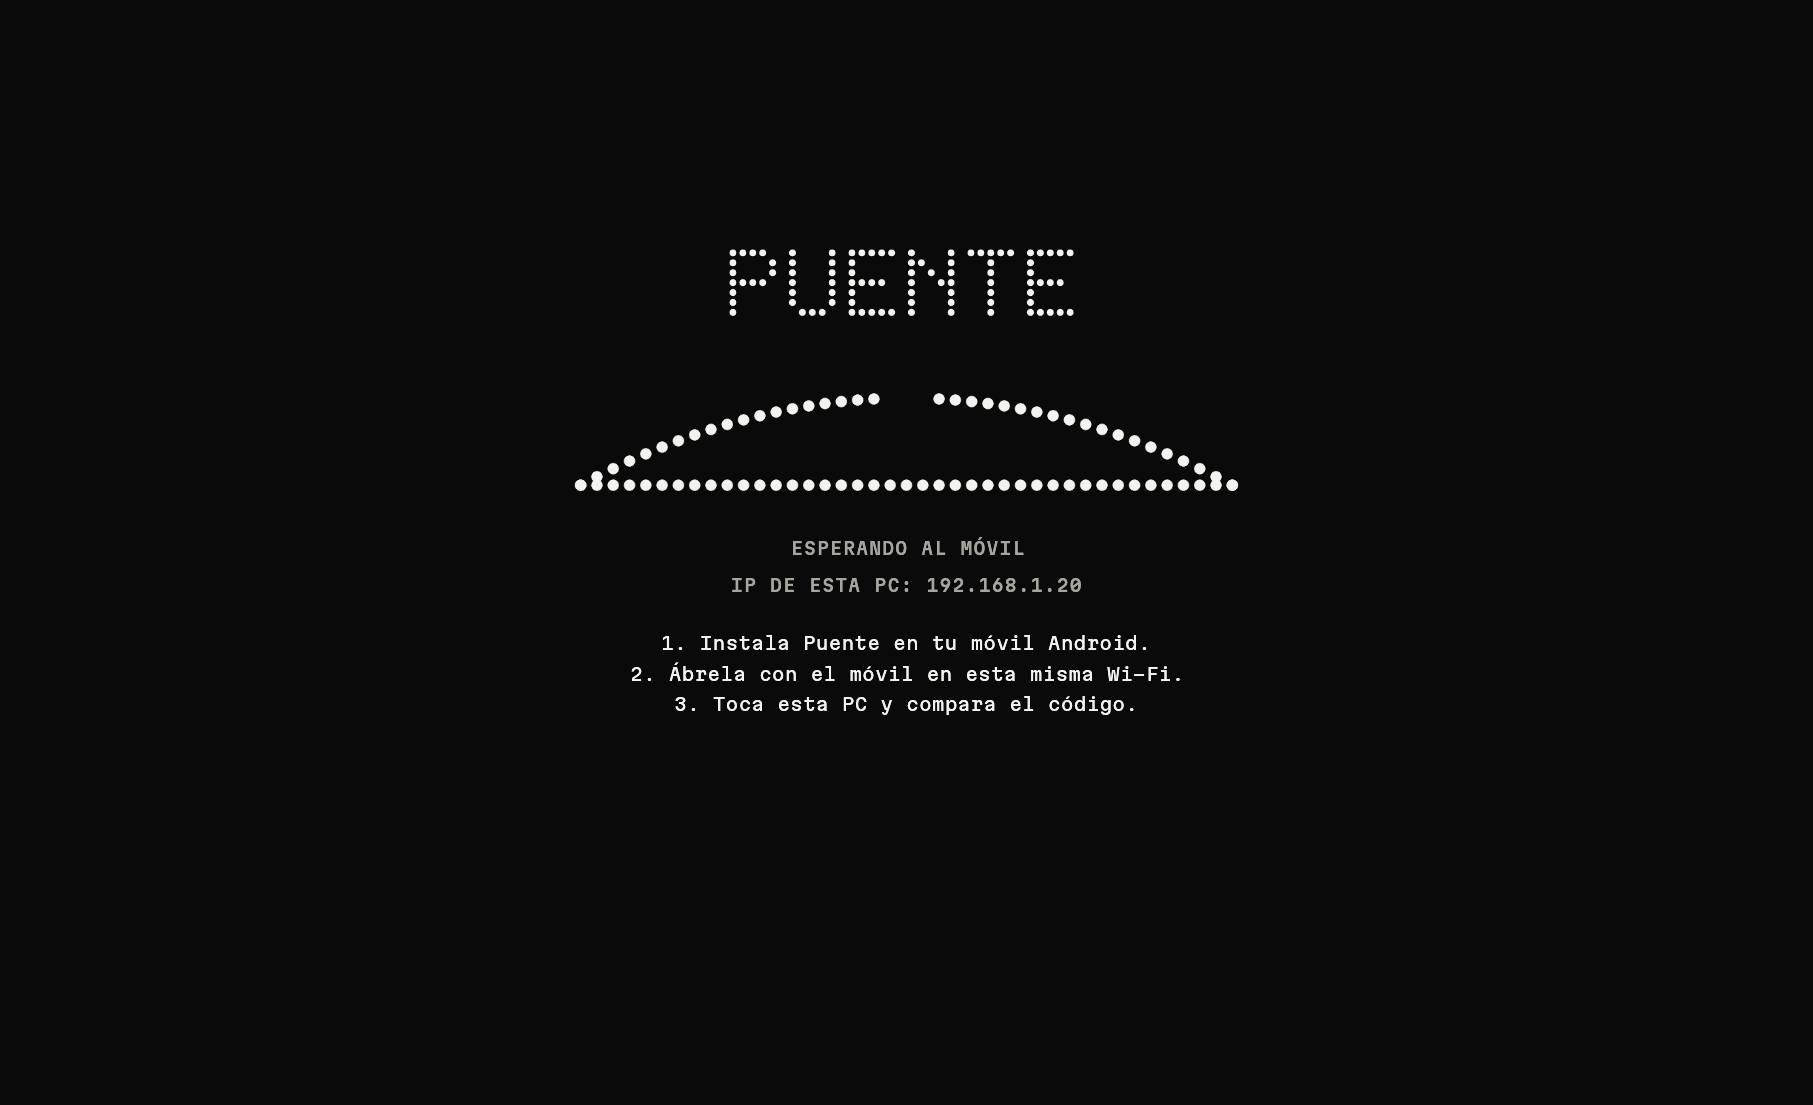
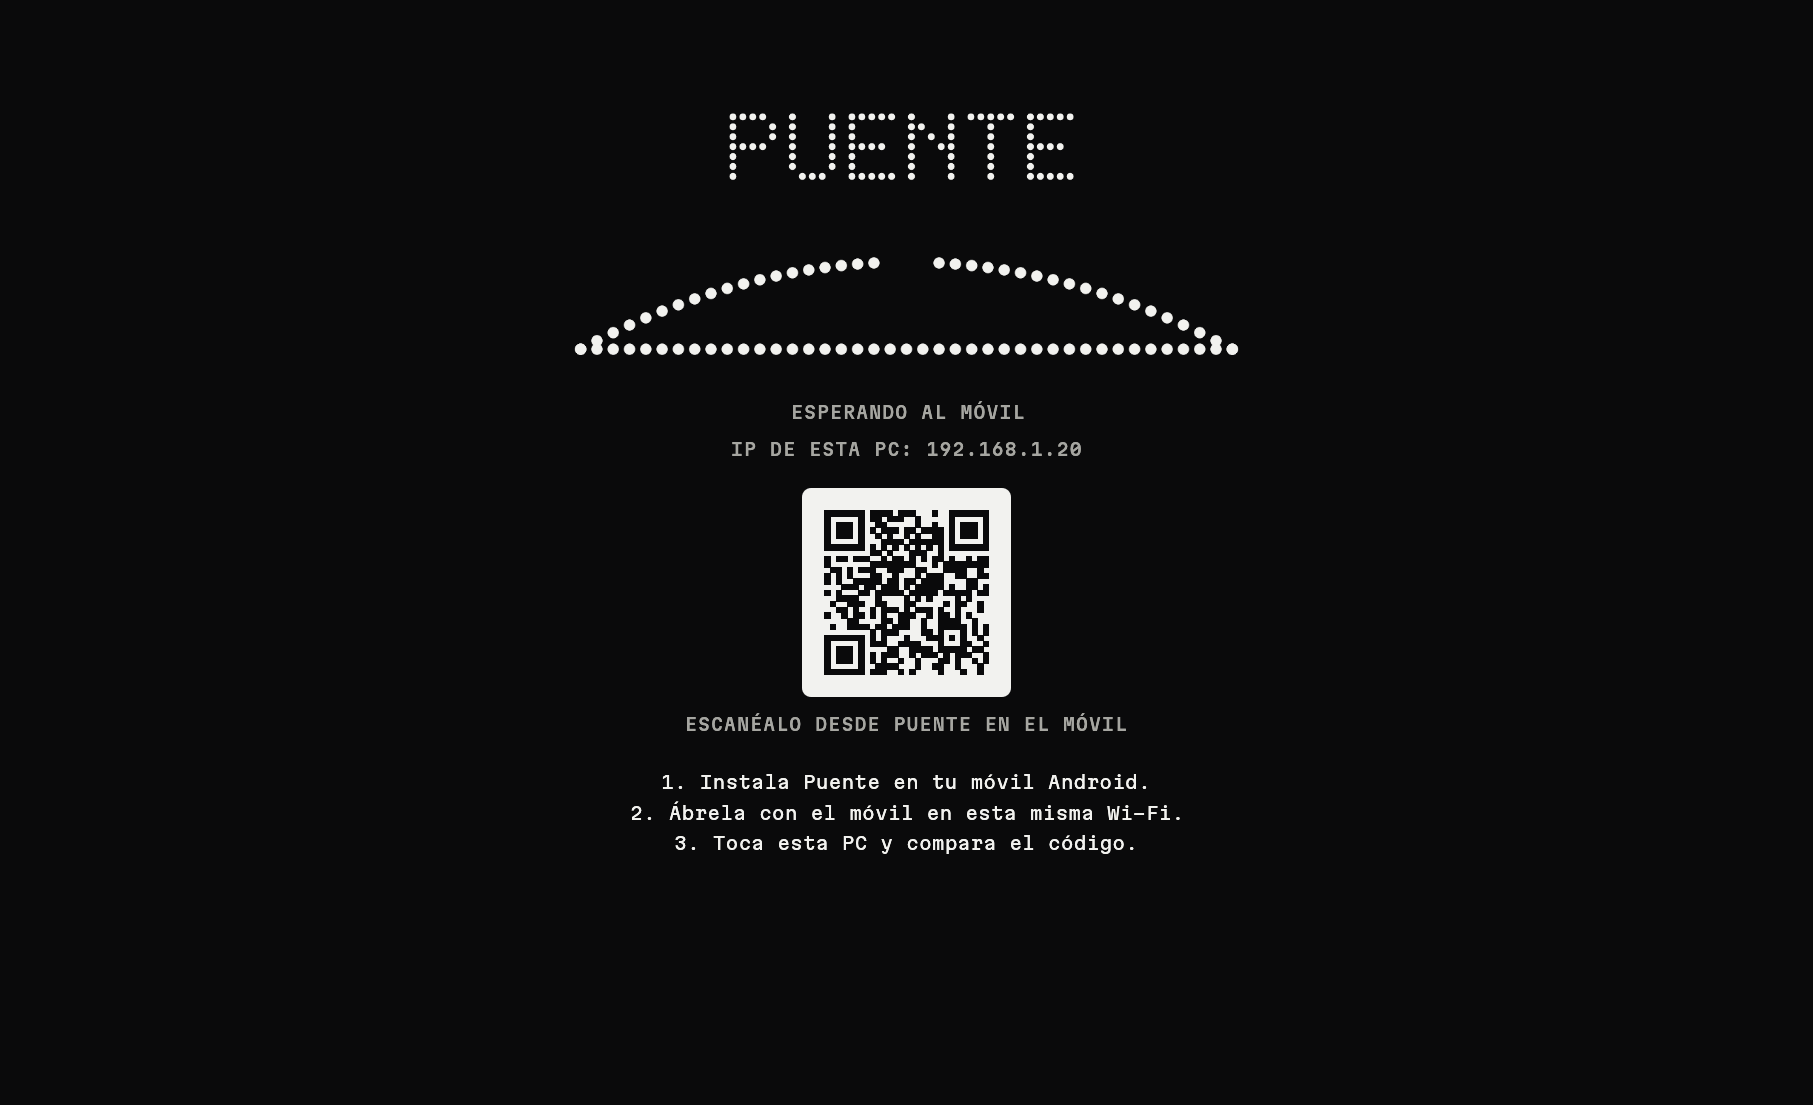
Añade el código QR para conectar por IP
La PC enseña su dirección como código QR en la pantalla de espera y el móvil
lo escanea con el lector de Google Play, sin permiso de cámara. Una dirección
escaneada o escrita se conecta sola en cuanto la PC responde.

Changed region(s): [[0.3089, 0.2154, 0.6795, 0.6769], [0.3707, 0.7077, 0.6486, 0.7692], [0.4015, 0.0923, 0.5869, 0.1846]]

diff --git a/android/app/src/main/java/dev/puente/app/MainActivity.kt b/android/app/src/main/java/dev/puente/app/MainActivity.kt
@@ -12,6 +12,10 @@ import android.os.PowerManager
 import android.os.Process
 import android.provider.Settings
 import android.view.WindowInsets
+import android.widget.Toast
+import com.google.mlkit.vision.barcode.common.Barcode
+import com.google.mlkit.vision.codescanner.GmsBarcodeScannerOptions
+import com.google.mlkit.vision.codescanner.GmsBarcodeScanning
 import kotlin.system.exitProcess
 
 class MainActivity : NativeActivity() {
@@ -95,6 +99,19 @@ class MainActivity : NativeActivity() {
             Intent(Settings.ACTION_REQUEST_IGNORE_BATTERY_OPTIMIZATIONS)
                 .setData(Uri.parse("package:$packageName")),
         )
+    }
+
+    /** Llamado desde Rust. El lector es de Google Play: no pide permiso de cámara. */
+    fun scanCode() = runOnUiThread {
+        val options = GmsBarcodeScannerOptions.Builder()
+            .setBarcodeFormats(Barcode.FORMAT_QR_CODE)
+            .build()
+        GmsBarcodeScanning.getClient(this, options).startScan()
+            .addOnSuccessListener { code -> code.rawValue?.let(Native::onScannedCode) }
+            .addOnFailureListener { error ->
+                Native.log("no se pudo escanear: $error")
+                Toast.makeText(this, R.string.scan_failed, Toast.LENGTH_LONG).show()
+            }
     }
 
     private fun askForCapture() {

diff --git a/android/app/src/main/java/dev/puente/app/Native.kt b/android/app/src/main/java/dev/puente/app/Native.kt
@@ -22,6 +22,9 @@ object Native {
 
     external fun onBatteryUnrestricted(unrestricted: Boolean)
 
+    /** El texto del código QR escaneado; se ignora si no es de Puente. */
+    external fun onScannedCode(text: String)
+
     /** Verdadero mientras hay una PC conectada. */
     external fun isLinked(): Boolean
 

diff --git a/crates/puente-ui/src/desktop.rs b/crates/puente-ui/src/desktop.rs
@@ -21,7 +21,7 @@ use crate::parts::{
     self, card_full, displayable, dot_figure, icon_button, icon_button_at, label, pill, pill_button, stat, switch_row,
     value_row,
 };
-use crate::theme::{ACCENT, EDGE, GAP, INK, INK_SOFT, LOADING, PADDING, TEXT_LABEL};
+use crate::theme::{ACCENT, EDGE, GAP, GROUND, INK, INK_SOFT, LOADING, PADDING, TEXT_LABEL};
 
 const OUTER: f32 = 10.0;
 const SIDE_WIDTH: f32 = 248.0;
@@ -320,10 +320,17 @@ fn draw_wordmark(ui: &mut egui::Ui) {
 fn draw_waiting(ui: &mut egui::Ui, area: Rect, frame: &Frame, status: Option<&str>) {
     const CONTENT_WIDTH: f32 = 460.0;
     const CONTENT_HEIGHT: f32 = 430.0;
+    const CODE_SIZE: f32 = 148.0;
+    const CODE_ROOM: f32 = CODE_SIZE + 44.0;
 
+    // Solo mientras se espera: conectando ya no hace falta decir dónde está la PC.
+    let address = frame.view.local_ip.filter(|_| status.is_none());
+    let height = CONTENT_HEIGHT + if address.is_some() { CODE_ROOM } else { 0.0 };
+    // Si la ventana es baja, el código es lo primero que sobra.
+    let code = address.filter(|_| area.height() >= height);
     let content = Rect::from_center_size(
         area.center(),
-        vec2(CONTENT_WIDTH.min(area.width()), CONTENT_HEIGHT.min(area.height())),
+        vec2(CONTENT_WIDTH.min(area.width()), height.min(area.height())),
     );
     centered(ui, content, |ui| {
         draw_wordmark(ui);
@@ -334,9 +341,15 @@ fn draw_waiting(ui: &mut egui::Ui, area: Rect, frame: &Frame, status: Option<&st
         ui.add_space(20.0);
 
         label(ui, status.unwrap_or(t().waiting_for_phone));
-        if let Some(ip) = frame.view.local_ip.filter(|_| status.is_none()) {
+        if let Some(ip) = address {
             ui.add_space(6.0);
             label(ui, &(t().this_pc_address)(&ip.to_string()));
+        }
+        if let Some(ip) = code {
+            ui.add_space(14.0);
+            draw_connect_code(ui, &puente_core::link::connect_link(ip), CODE_SIZE);
+            ui.add_space(6.0);
+            label(ui, t().scan_from_phone);
         }
         ui.add_space(20.0);
         if let Some(error) = &frame.view.last_error {
@@ -357,6 +370,32 @@ fn draw_waiting(ui: &mut egui::Ui, area: Rect, frame: &Frame, status: Option<&st
             draw_paired(ui, frame);
         }
     });
+}
+
+/// El enlace como código QR: oscuro sobre claro y con margen, que es como lo leen
+/// todos los lectores.
+fn draw_connect_code(ui: &mut egui::Ui, link: &str, size: f32) {
+    /// Módulos en blanco alrededor que pide el estándar.
+    const QUIET: usize = 4;
+
+    let (rect, _) = ui.allocate_exact_size(Vec2::splat(size), Sense::hover());
+    let Ok(code) = qrcode::QrCode::new(link.as_bytes()) else {
+        return;
+    };
+    let width = code.width();
+    let module = size / (width + QUIET * 2) as f32;
+    let painter = ui.painter();
+    painter.rect_filled(rect, 6.0, INK);
+    for (index, color) in code.to_colors().into_iter().enumerate() {
+        if color != qrcode::Color::Dark {
+            continue;
+        }
+        let column = (index % width + QUIET) as f32;
+        let row = (index / width + QUIET) as f32;
+        let corner = rect.min + vec2(column * module, row * module);
+        // Un pelo más grande para que no queden rendijas entre módulos.
+        painter.rect_filled(Rect::from_min_size(corner, Vec2::splat(module + 0.5)), 0.0, GROUND);
+    }
 }
 
 fn draw_paired(ui: &mut egui::Ui, frame: &Frame) {

diff --git a/crates/puente-ui/src/phone.rs b/crates/puente-ui/src/phone.rs
@@ -100,7 +100,7 @@ pub fn draw(
                 ui.colored_label(ACCENT, i18n::problem(error));
             }
             match &view.status {
-                Status::Searching => draw_searching(ui, engine, view, state, bridge),
+                Status::Searching => draw_searching(ui, engine, view, phone, state, bridge),
                 Status::Connecting { name } => {
                     card(ui, "01", t().card_link, true, |ui| {
                         draw_bridge(ui, bridge);
@@ -118,7 +118,14 @@ pub fn draw(
     });
 }
 
-fn draw_searching(ui: &mut egui::Ui, engine: &Engine, view: &View, state: &mut PhoneState, bridge: BridgeState) {
+fn draw_searching(
+    ui: &mut egui::Ui,
+    engine: &Engine,
+    view: &View,
+    phone: Option<&dyn PhoneActions>,
+    state: &mut PhoneState,
+    bridge: BridgeState,
+) {
     card(ui, "01", t().card_link, true, |ui| {
         draw_bridge(ui, bridge);
         label(ui, t().searching_pc);
@@ -162,11 +169,18 @@ fn draw_searching(ui: &mut egui::Ui, engine: &Engine, view: &View, state: &mut P
     }
 
     let shown = 1 + usize::from(middle_card) + usize::from(!view.paired.is_empty());
-    draw_address_card(ui, engine, view, state, &format!("{:02}", shown + 1));
+    draw_address_card(ui, engine, view, phone, state, &format!("{:02}", shown + 1));
 }
 
 /// Para redes donde la PC no aparece sola: se pregunta directamente a su IP.
-fn draw_address_card(ui: &mut egui::Ui, engine: &Engine, view: &View, state: &mut PhoneState, index: &str) {
+fn draw_address_card(
+    ui: &mut egui::Ui,
+    engine: &Engine,
+    view: &View,
+    phone: Option<&dyn PhoneActions>,
+    state: &mut PhoneState,
+    index: &str,
+) {
     /// Lo que se espera antes de decir que la dirección no responde.
     const ANSWER_SECONDS: f32 = 8.0;
 
@@ -184,9 +198,16 @@ fn draw_address_card(ui: &mut egui::Ui, engine: &Engine, view: &View, state: &mu
         let Some(ip) = view.manual_ip else {
             state.address_since = None;
             ui.label(RichText::new(t().address_help).color(INK_SOFT));
-            if pill(ui, t().type_address, TOUCH, false).clicked() {
-                state.address_draft = Some(String::new());
-            }
+            ui.horizontal(|ui| {
+                if let Some(phone) = phone
+                    && pill(ui, t().scan_code, TOUCH, true).clicked()
+                {
+                    phone.scan_code();
+                }
+                if pill(ui, t().type_address, TOUCH, false).clicked() {
+                    state.address_draft = Some(String::new());
+                }
+            });
             return;
         };
         // Tras reabrir la app la cuenta empieza de nuevo.

diff --git a/crates/puente-core/src/engine.rs b/crates/puente-core/src/engine.rs
@@ -30,6 +30,8 @@ use crate::{Error, Fingerprint, Identity, PROTOCOL_VERSION, Peer, PeerStore, Res
 const CONNECT_TIMEOUT: Duration = Duration::from_secs(5);
 const PROBE_EVERY: Duration = Duration::from_secs(3);
 const LOCAL_IP_EVERY: Duration = Duration::from_secs(5);
+/// Cuánto vale la intención de conectar con una dirección escrita o escaneada.
+const WANTED_FOR: Duration = Duration::from_secs(30);
 const FOUND_EXPIRES: Duration = Duration::from_secs(10);
 /// Pocos paquetes en cola: si la red se atrasa es mejor saltar que acumular retraso.
 const VIDEO_QUEUE: usize = 8;
@@ -792,7 +794,8 @@ impl Engine {
         self.send_command(PhoneCommand::Quality { level: quality });
     }
 
-    /// Móvil: pregunta también a esta dirección, o deja de hacerlo con `None`.
+    /// Móvil: pregunta también a esta dirección, o deja de hacerlo con `None`. Si la PC
+    /// responde enseguida, se conecta con ella y enseña el código para emparejar.
     pub fn set_manual_ip(&self, ip: Option<IpAddr>) {
         {
             let mut settings = self.shared.settings.lock().expect("ajustes disponibles");
@@ -1046,6 +1049,8 @@ async fn search_for_desktop(
         return;
     };
     let mut seen: Vec<(Found, Instant)> = Vec::new();
+    // La dirección recién pedida a mano: si responde, se conecta sin más toques.
+    let mut wanted: Option<(IpAddr, Instant)> = None;
     let mut ticker = interval(PROBE_EVERY);
     ticker.set_missed_tick_behavior(MissedTickBehavior::Delay);
     let mut buffer = [0; 1024];
@@ -1080,7 +1085,12 @@ async fn search_for_desktop(
                 seen.retain(|(other, _)| other.fingerprint != fingerprint);
                 seen.push((found.clone(), Instant::now()));
                 publish_found(&shared, &seen);
-                if found.paired {
+                let asked_for = wanted
+                    .is_some_and(|(ip, since)| ip == source.ip() && since.elapsed() < WANTED_FOR);
+                if asked_for {
+                    wanted = None;
+                }
+                if found.paired || asked_for {
                     start_attempt(&shared, found);
                 }
             }
@@ -1092,6 +1102,7 @@ async fn search_for_desktop(
                     }
                 }
                 Command::Probe(ip) => {
+                    wanted = Some((ip, Instant::now()));
                     let _ = socket.send_to(&probe, SocketAddr::new(ip, port)).await;
                 }
             }

diff --git a/crates/puente-ui/src/i18n.rs b/crates/puente-ui/src/i18n.rs
@@ -163,6 +163,8 @@ pub struct Texts {
     pub card_address: &'static str,
     pub address_help: &'static str,
     pub type_address: &'static str,
+    pub scan_code: &'static str,
+    pub scan_from_phone: &'static str,
     pub address_placeholder: &'static str,
     pub connect: &'static str,
     pub remove: &'static str,
@@ -330,8 +332,10 @@ static SPANISH: Texts = Texts {
     connecting_to: |name| format!("Conectando con {name}"),
     this_pc_address: |ip| format!("IP de esta PC: {ip}"),
     card_address: "Conectar por IP",
-    address_help: "Si tu PC no aparece sola, escribe la IP que muestra Puente en la PC.",
+    address_help: "Si tu PC no aparece sola, escanea el código QR que muestra Puente en la PC o escribe su IP.",
     type_address: "Escribir IP",
+    scan_code: "Escanear QR",
+    scan_from_phone: "Escanéalo desde Puente en el móvil",
     address_placeholder: "IP de la PC",
     connect: "Conectar",
     remove: "Quitar",
@@ -489,8 +493,10 @@ static ENGLISH: Texts = Texts {
     connecting_to: |name| format!("Connecting to {name}"),
     this_pc_address: |ip| format!("This PC's IP: {ip}"),
     card_address: "Connect by IP",
-    address_help: "If your PC does not show up by itself, type the IP that Puente shows on the PC.",
+    address_help: "If your PC does not show up by itself, scan the QR code that Puente shows on the PC or type its IP.",
     type_address: "Type IP",
+    scan_code: "Scan QR",
+    scan_from_phone: "Scan it from Puente on the phone",
     address_placeholder: "PC's IP",
     connect: "Connect",
     remove: "Remove",
@@ -648,8 +654,10 @@ static PORTUGUESE: Texts = Texts {
     connecting_to: |name| format!("Conectando a {name}"),
     this_pc_address: |ip| format!("IP deste PC: {ip}"),
     card_address: "Conectar por IP",
-    address_help: "Se o seu PC não aparecer sozinho, digite o IP que o Puente mostra no PC.",
+    address_help: "Se o seu PC não aparecer sozinho, escaneie o código QR que o Puente mostra no PC ou digite o IP.",
     type_address: "Digitar IP",
+    scan_code: "Escanear QR",
+    scan_from_phone: "Escaneie pelo Puente no celular",
     address_placeholder: "IP do PC",
     connect: "Conectar",
     remove: "Remover",

diff --git a/crates/puente-core/src/link.rs b/crates/puente-core/src/link.rs
@@ -1,0 +1,36 @@
+//! El enlace que la PC enseña como código QR para que el móvil sepa dónde buscarla.
+//! Solo lleva la dirección: la identidad se comprueba después, al emparejar.
+
+use std::net::IpAddr;
+
+const PREFIX: &str = "puente://connect?ip=";
+
+pub fn connect_link(ip: IpAddr) -> String {
+    format!("{PREFIX}{ip}")
+}
+
+/// `None` si el texto no es un enlace de Puente con una dirección válida.
+pub fn parse_connect_link(text: &str) -> Option<IpAddr> {
+    let rest = text.trim().strip_prefix(PREFIX)?;
+    rest.split('&').next()?.parse().ok()
+}
+
+#[cfg(test)]
+mod tests {
+    use super::*;
+
+    #[test]
+    fn a_link_carries_the_address_back_and_forth() {
+        let ip: IpAddr = "192.168.1.20".parse().unwrap();
+        assert_eq!(connect_link(ip), "puente://connect?ip=192.168.1.20");
+        assert_eq!(parse_connect_link(&connect_link(ip)), Some(ip));
+        assert_eq!(parse_connect_link(" puente://connect?ip=10.0.0.7&v=2\n"), Some("10.0.0.7".parse().unwrap()));
+    }
+
+    #[test]
+    fn other_codes_are_not_taken_for_an_address() {
+        for text in ["", "https://example.com", "puente://connect?ip=", "puente://connect?ip=hola", "192.168.1.20"] {
+            assert_eq!(parse_connect_link(text), None, "{text}");
+        }
+    }
+}

diff --git a/crates/puente-android/src/bridge.rs b/crates/puente-android/src/bridge.rs
@@ -65,6 +65,10 @@ impl PhoneActions for ActivityActions {
         self.call("openBatterySettings");
     }
 
+    fn scan_code(&self) {
+        self.call("scanCode");
+    }
+
     fn battery_unrestricted(&self) -> bool {
         BATTERY_UNRESTRICTED.load(Ordering::SeqCst)
     }
@@ -425,6 +429,22 @@ pub extern "system" fn Java_dev_puente_app_Native_onCall(
     };
     if let Some(engine) = running_engine() {
         engine.report_call(call);
+    }
+}
+
+/// El texto de un código escaneado. Solo se atiende si es un enlace de Puente.
+#[unsafe(no_mangle)]
+pub extern "system" fn Java_dev_puente_app_Native_onScannedCode(mut env: JNIEnv, _this: JObject, value: JString) {
+    let scanned = text(&mut env, &value);
+    let Some(engine) = running_engine() else {
+        return;
+    };
+    match puente_core::link::parse_connect_link(&scanned) {
+        Some(ip) => {
+            engine.set_manual_ip(Some(ip));
+            request_repaint();
+        }
+        None => report("el código escaneado no es de Puente".to_string()),
     }
 }
 

diff --git a/crates/puente-core/tests/connection.rs b/crates/puente-core/tests/connection.rs
@@ -85,9 +85,15 @@ fn a_desktop_that_does_not_show_up_is_found_by_its_address() {
     assert!(phone.view().found.is_empty());
 
     phone.set_manual_ip(Some("127.0.0.1".parse().unwrap()));
-    let view = wait_for(&phone, "la PC por su dirección", |view| !view.found.is_empty());
-    assert_eq!(view.manual_ip, Some("127.0.0.1".parse().unwrap()));
-    pair(&desktop, &phone);
+    // Sin tocar nada más: la PC responde y el móvil enseña el código.
+    let phone_view = wait_for(&phone, "código en el móvil", |view| pairing_code(view).is_some());
+    assert_eq!(phone_view.manual_ip, Some("127.0.0.1".parse().unwrap()));
+    assert_eq!(phone_view.found.len(), 1);
+    let desktop_view = wait_for(&desktop, "código en la PC", |view| pairing_code(view).is_some());
+    assert_eq!(pairing_code(&phone_view), pairing_code(&desktop_view));
+    desktop.answer_pairing(true);
+    phone.answer_pairing(true);
+    wait_for(&phone, "conexión en el móvil", connected);
 }
 
 #[test]

diff --git a/crates/puente-ui/src/lib.rs b/crates/puente-ui/src/lib.rs
@@ -50,6 +50,8 @@ pub trait PhoneActions {
     fn open_accessibility_settings(&self);
     fn open_notification_settings(&self);
     fn open_battery_settings(&self);
+    /// Abre el lector de códigos para escanear el QR que enseña la PC.
+    fn scan_code(&self);
     /// Android tiene permitido no dormir la app en segundo plano.
     fn battery_unrestricted(&self) -> bool;
     /// Píxeles que ocupan arriba y abajo las barras del sistema.

diff --git a/crates/puente-ui/src/demo.rs b/crates/puente-ui/src/demo.rs
@@ -166,6 +166,8 @@ impl PhoneActions for SamplePhone {
 
     fn open_battery_settings(&self) {}
 
+    fn scan_code(&self) {}
+
     fn battery_unrestricted(&self) -> bool {
         true
     }

diff --git a/crates/puente-core/src/lib.rs b/crates/puente-core/src/lib.rs
@@ -2,6 +2,7 @@
 
 pub mod engine;
 pub mod identity;
+pub mod link;
 pub mod pairing;
 pub mod peers;
 pub mod session;
